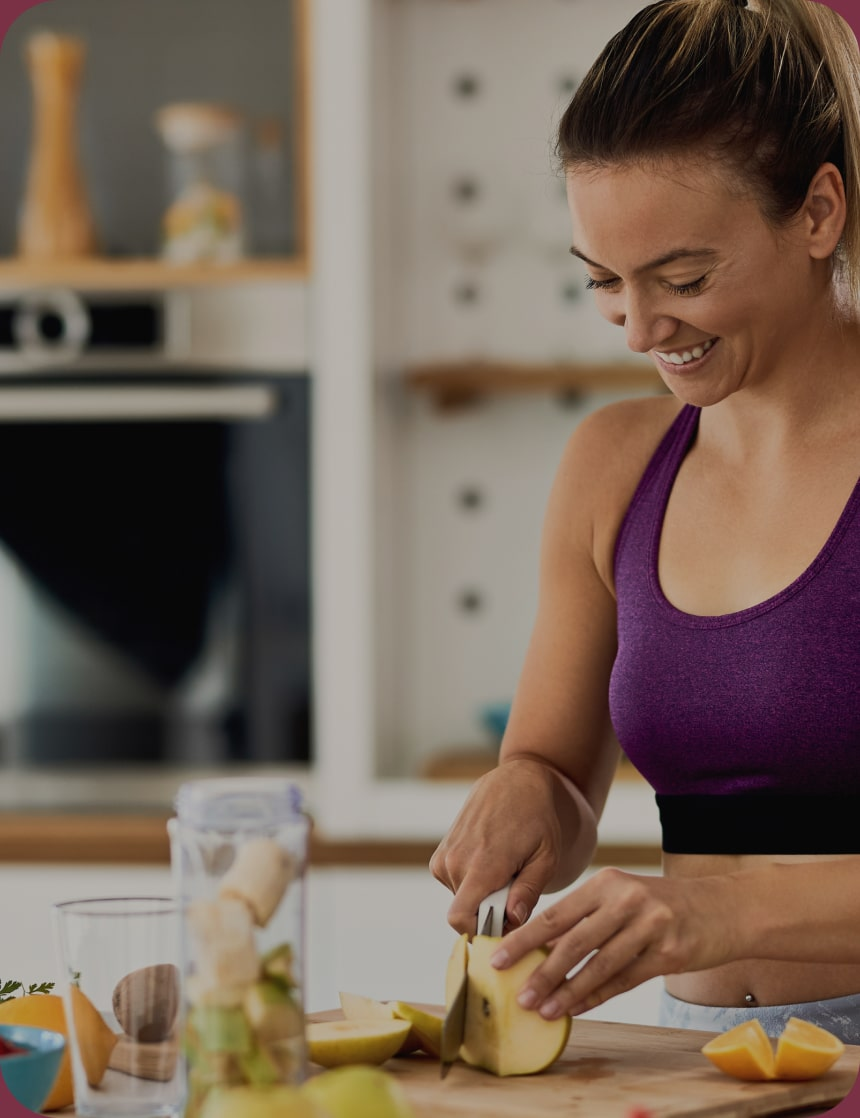
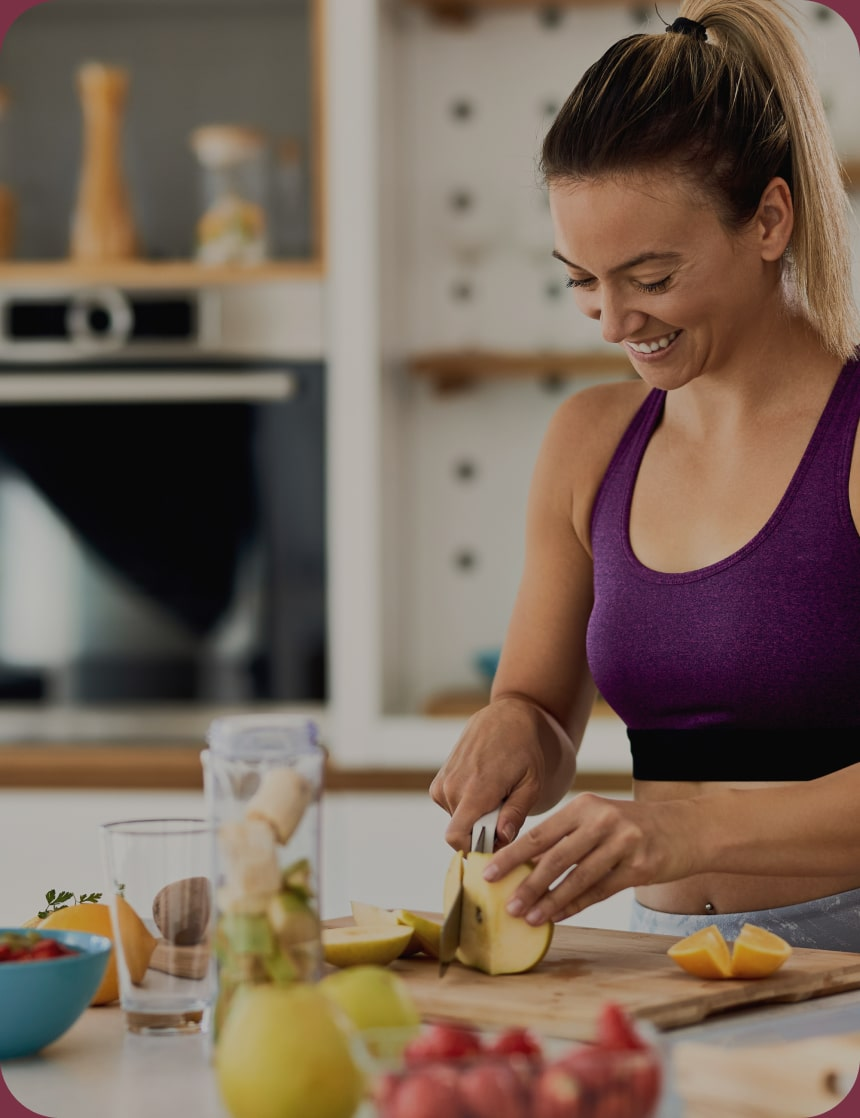
upd img desktop and width with heigth for tablet

diff --git a/src/css/how-it-works.css b/src/css/how-it-works.css
@@ -205,7 +205,9 @@ ol {
     }
 
     .how-it-image-woman {
-        
+        width: 640px;
+        height: 640px;
+        object-fit: contain;
     }
     
 }
